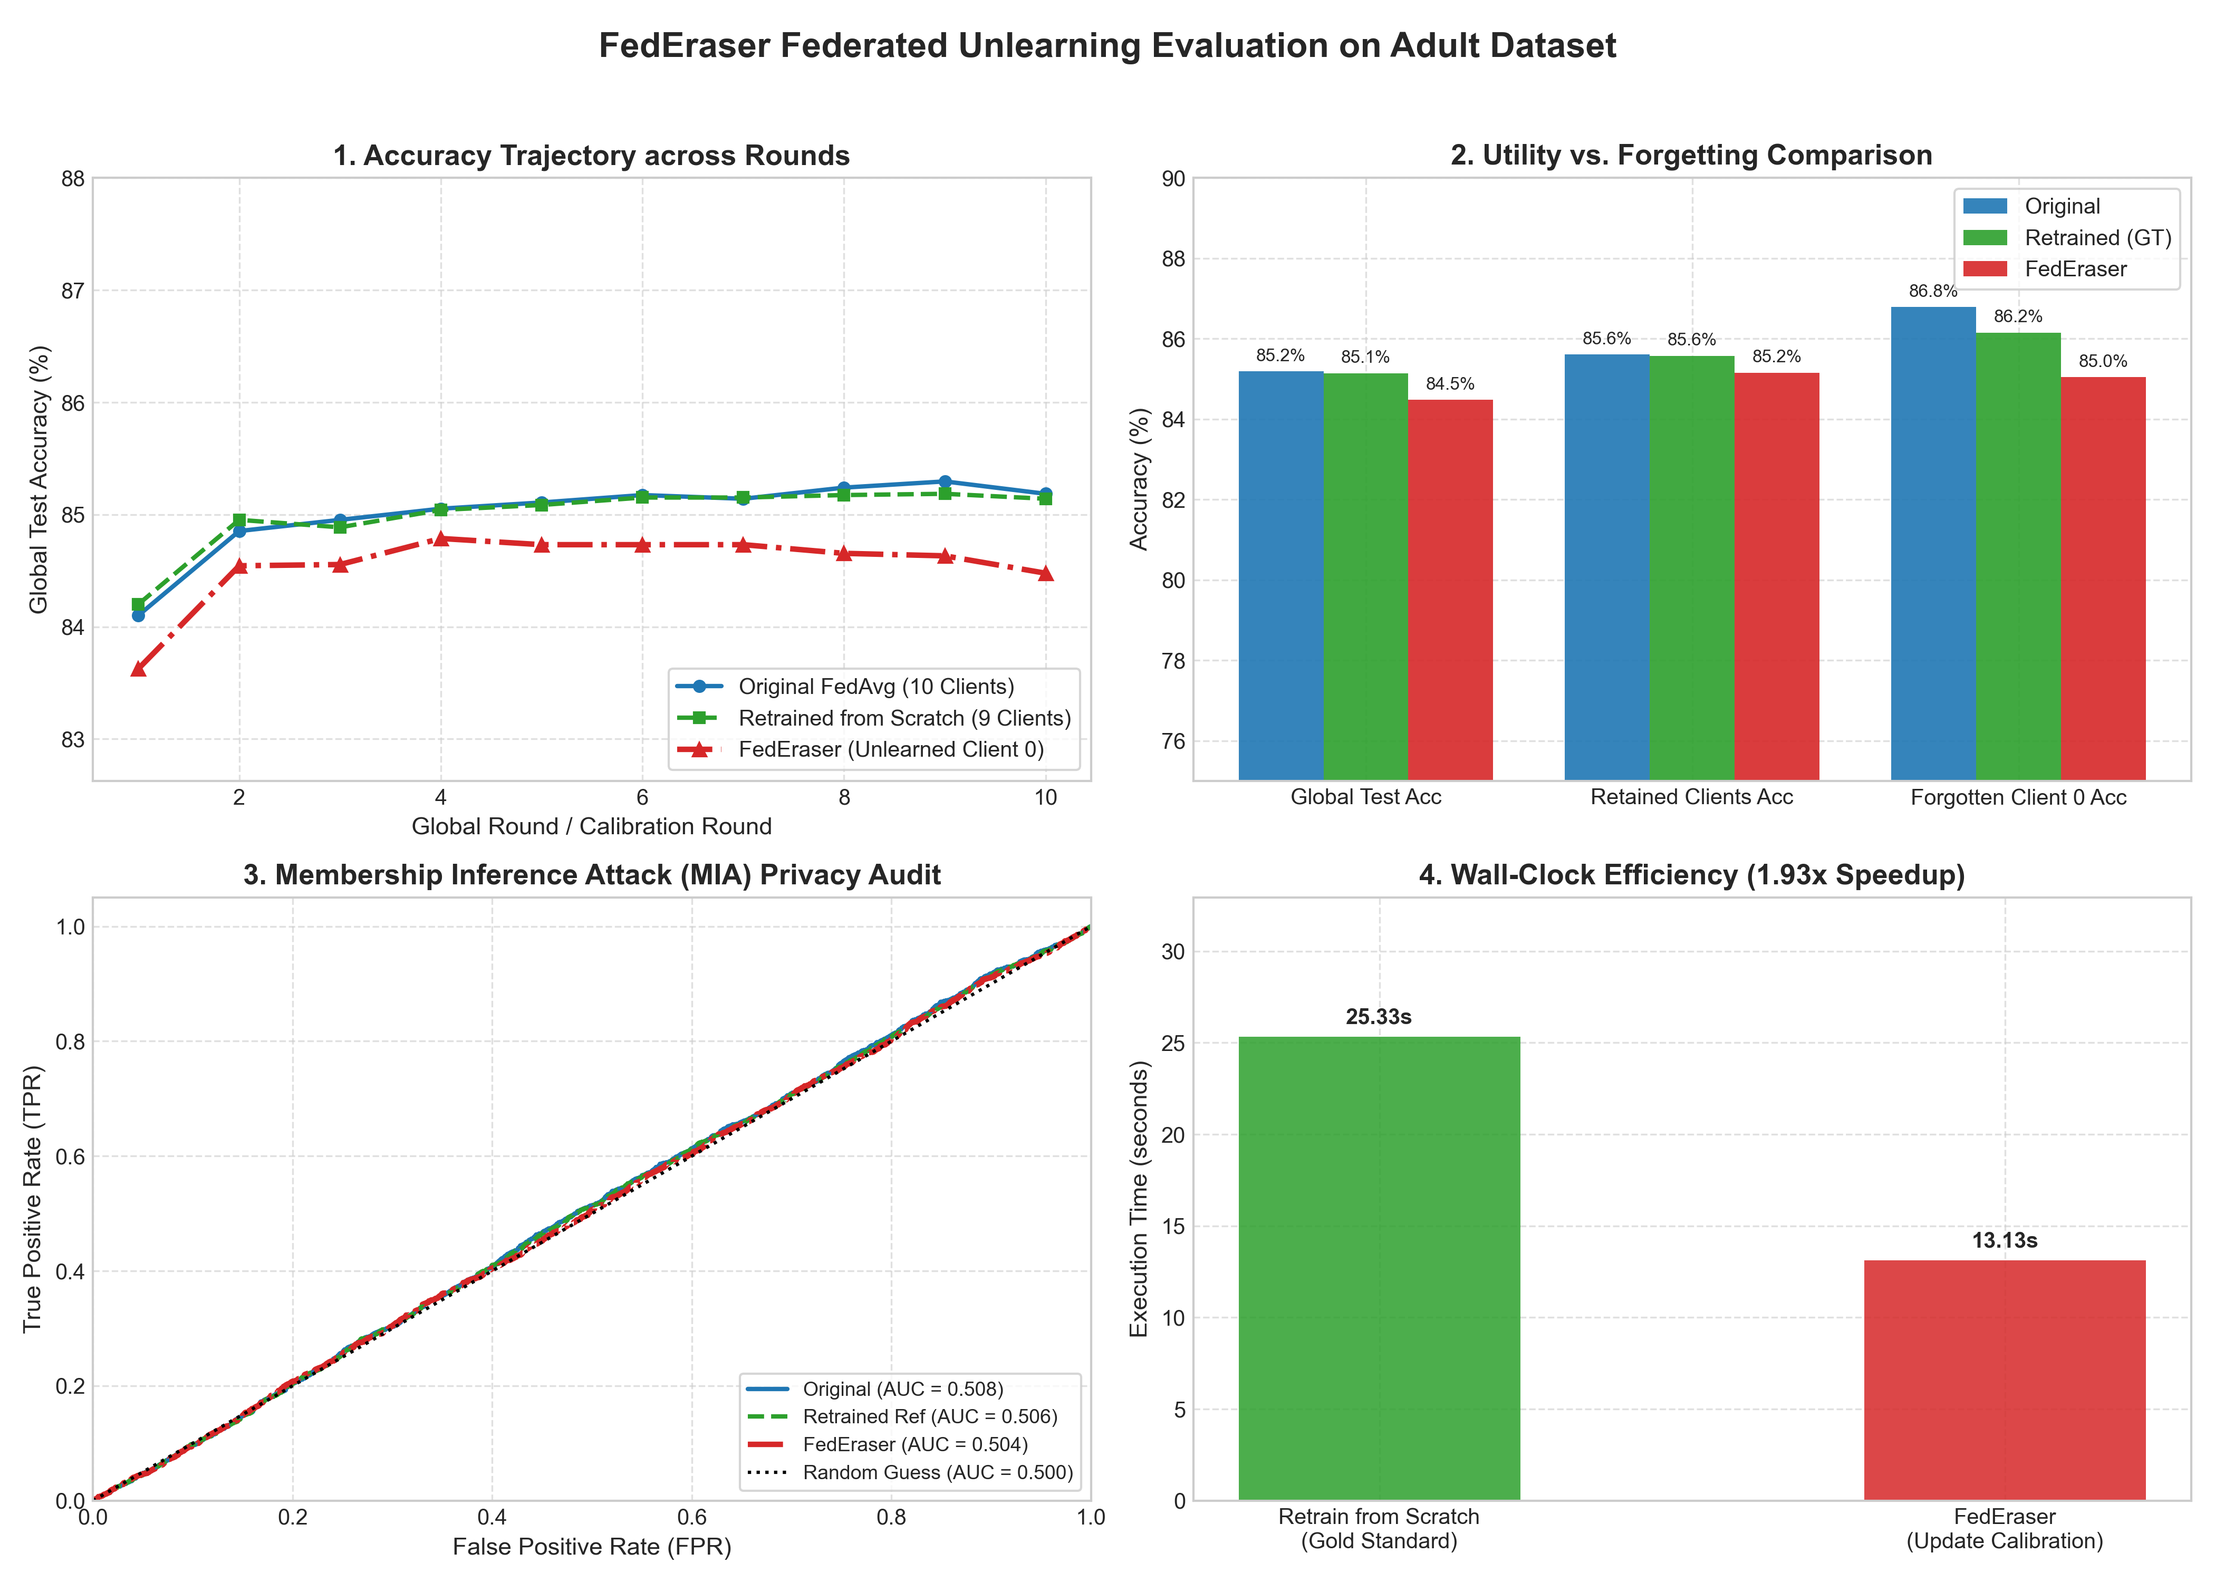
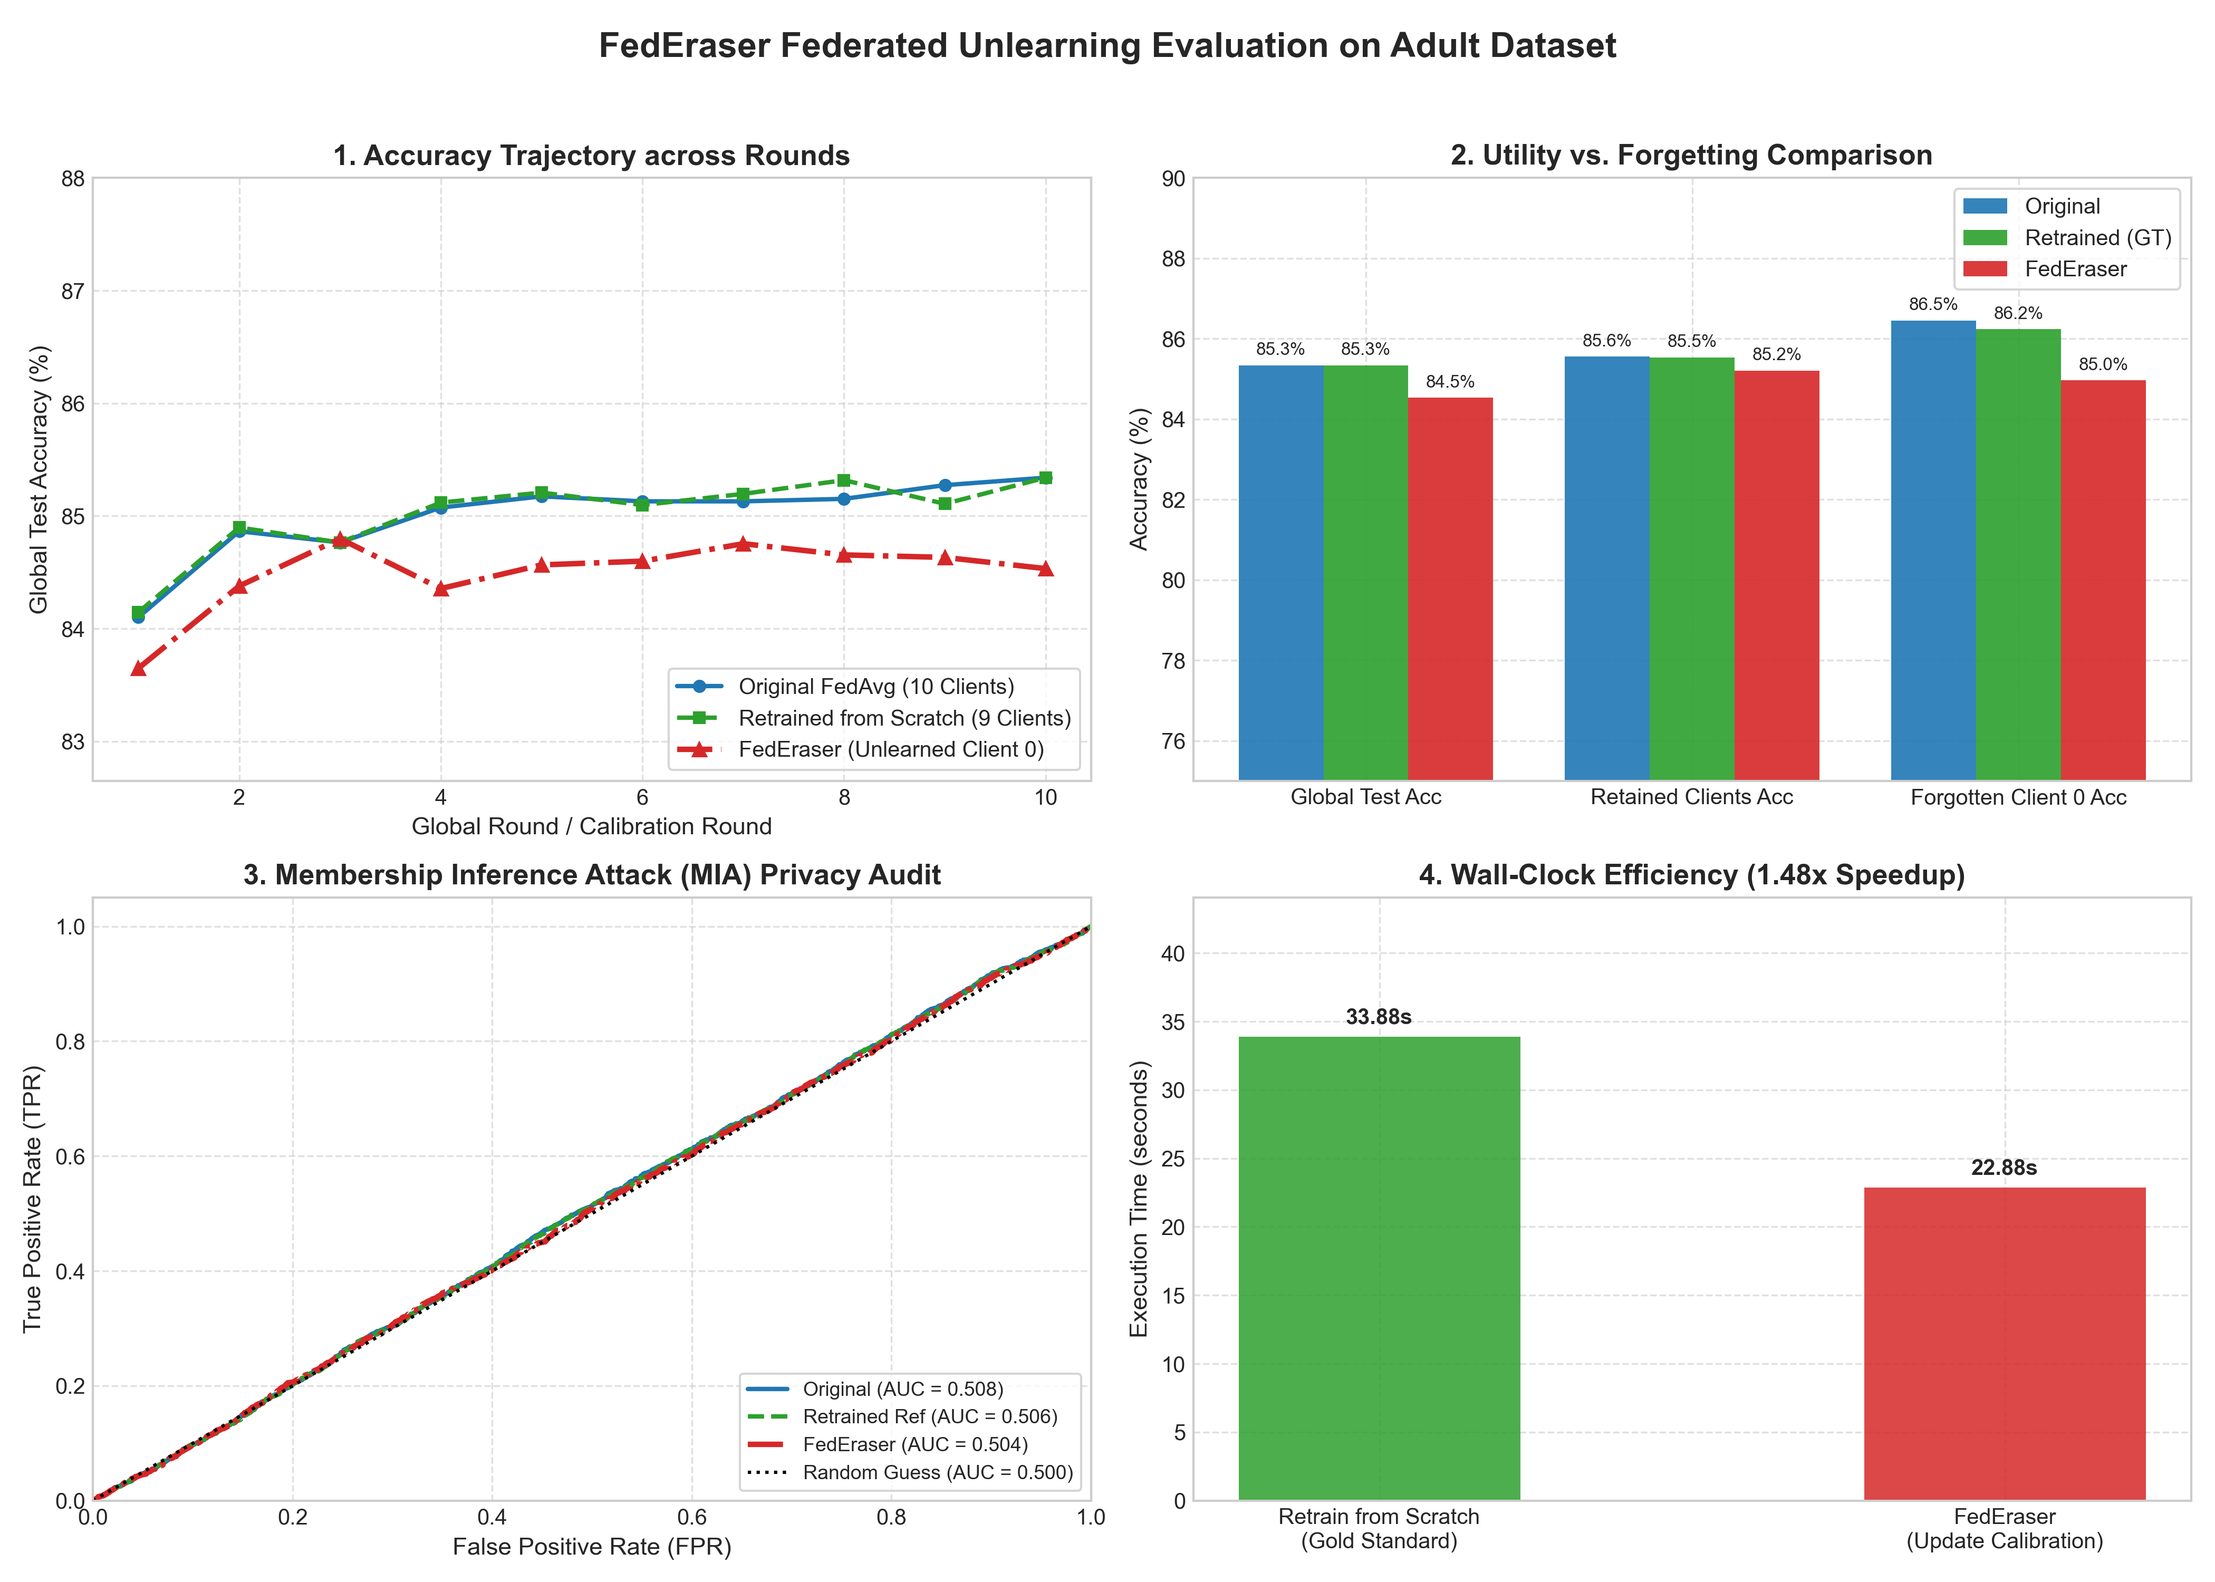
Add time consumption and training vs testing data breakdown plots and documentation

diff --git a/src/metrics/plots.py b/src/metrics/plots.py
@@ -123,3 +123,116 @@ def generate_paper_plots(
     plt.close()
     print(f"\n[Visual Plots Saved]: {filepath}")
     return filepath
+
+
+def generate_time_and_data_plots(
+    orig_history,
+    retrain_history,
+    unlearn_history,
+    summary_metrics,
+    output_dir="results",
+    filename="federaser_time_and_data_plots.png"
+):
+    """
+    Generates a 4-panel figure analyzing:
+    1. Cumulative Time Consumption across rounds (Retrain vs. FedEraser)
+    2. Training Loss vs. Testing Loss trajectories (Generalization analysis)
+    3. Accuracy on Training vs. Testing vs. Forgotten private data
+    4. Computation Rate: Time consumption per round (s/round) & speedup
+    """
+    os.makedirs(output_dir, exist_ok=True)
+    filepath = os.path.join(output_dir, filename)
+
+    plt.style.use('seaborn-v0_8-whitegrid' if 'seaborn-v0_8-whitegrid' in plt.style.available else 'default')
+    fig, axes = plt.subplots(2, 2, figsize=(14, 10))
+    fig.suptitle("FedEraser: Training vs. Testing Data & Time Consumption Analysis", fontsize=16, fontweight='bold', y=0.98)
+
+    rounds = range(1, len(retrain_history["test_acc"]) + 1)
+
+    # -------------------------------------------------------------
+    # 1. Cumulative Time Consumption over Rounds
+    # -------------------------------------------------------------
+    ax1 = axes[0, 0]
+    ax1.plot(rounds, retrain_history["cumulative_time"], 's--', color='#2ca02c', linewidth=2.5, markersize=6, label="Retrain from Scratch (Full Retraining)")
+    ax1.plot(rounds, unlearn_history["cumulative_time"], '^-.', color='#d62728', linewidth=2.5, markersize=6, label="FedEraser (1-Epoch Calibration)")
+    ax1.set_title("1. Cumulative Time Consumption across Rounds", fontsize=13, fontweight='bold')
+    ax1.set_xlabel("Global / Calibration Round", fontsize=11)
+    ax1.set_ylabel("Elapsed Wall-Clock Time (seconds)", fontsize=11)
+    ax1.legend(loc="upper left", frameon=True)
+    ax1.grid(True, linestyle='--', alpha=0.6)
+
+    final_retrain_t = retrain_history["cumulative_time"][-1]
+    final_unlearn_t = unlearn_history["cumulative_time"][-1]
+    ax1.annotate(f'Time Saved: {final_retrain_t - final_unlearn_t:.1f}s\n({summary_metrics["speedup"]:.2f}x Speedup)',
+                 xy=(rounds[-1], final_unlearn_t),
+                 xytext=(rounds[-1] - 3.8, (final_retrain_t + final_unlearn_t) / 2),
+                 arrowprops=dict(facecolor='black', arrowstyle='->', lw=1.5),
+                 fontsize=10, fontweight='bold', bbox=dict(boxstyle='round,pad=0.4', facecolor='yellow', alpha=0.7))
+
+    # -------------------------------------------------------------
+    # 2. Training vs. Testing Loss Curves
+    # -------------------------------------------------------------
+    ax2 = axes[0, 1]
+    ax2.plot(rounds, retrain_history["train_loss"], 'g-', label="Retrained - Train Loss (Retained)", linewidth=1.8)
+    ax2.plot(rounds, retrain_history["test_loss"], 'g--', label="Retrained - Test Loss", linewidth=1.8)
+    ax2.plot(rounds, unlearn_history["train_loss"], 'r-', label="FedEraser - Train Loss (Retained)", linewidth=2.0)
+    ax2.plot(rounds, unlearn_history["test_loss"], 'r--', label="FedEraser - Test Loss", linewidth=2.0)
+    ax2.set_title("2. Training Loss vs. Testing Loss Trajectories", fontsize=13, fontweight='bold')
+    ax2.set_xlabel("Global / Calibration Round", fontsize=11)
+    ax2.set_ylabel("Cross-Entropy Loss", fontsize=11)
+    ax2.legend(loc="upper right", frameon=True, fontsize=9)
+    ax2.grid(True, linestyle='--', alpha=0.6)
+
+    # -------------------------------------------------------------
+    # 3. Training Data vs. Testing Data Accuracy
+    # -------------------------------------------------------------
+    ax3 = axes[1, 0]
+    categories = ["Training Data\n(Retained Clients)", "Testing Data\n(Global Test Set)", "Forgotten Data\n(Client 0 Private)"]
+    x = np.arange(len(categories))
+    width = 0.26
+
+    vals_orig = [orig_history["train_acc"][-1], summary_metrics["orig_test_acc"], summary_metrics["orig_u_acc"]]
+    vals_retrain = [retrain_history["train_acc"][-1], summary_metrics["retrain_test_acc"], summary_metrics["retrain_u_acc"]]
+    vals_unlearn = [unlearn_history["train_acc"][-1], summary_metrics["unlearn_test_acc"], summary_metrics["unlearn_u_acc"]]
+
+    r1 = ax3.bar(x - width, vals_orig, width, label="Original FedAvg", color='#1f77b4', alpha=0.9)
+    r2 = ax3.bar(x, vals_retrain, width, label="Retrained (GT)", color='#2ca02c', alpha=0.9)
+    r3 = ax3.bar(x + width, vals_unlearn, width, label="FedEraser", color='#d62728', alpha=0.9)
+
+    ax3.set_title("3. Accuracy on Training vs. Testing vs. Forgotten Data", fontsize=13, fontweight='bold')
+    ax3.set_xticks(x)
+    ax3.set_xticklabels(categories, fontsize=10)
+    ax3.set_ylabel("Accuracy (%)", fontsize=11)
+    ax3.set_ylim(75, 90)
+    ax3.legend(loc="lower right", frameon=True)
+    ax3.grid(True, linestyle='--', alpha=0.6)
+    for rects in [r1, r2, r3]:
+        for rect in rects:
+            h = rect.get_height()
+            ax3.annotate(f'{h:.1f}%', xy=(rect.get_x() + rect.get_width() / 2, h),
+                         xytext=(0, 3), textcoords="offset points", ha='center', va='bottom', fontsize=8)
+
+    # -------------------------------------------------------------
+    # 4. Computation Rate: Time per Round (Seconds per Round)
+    # -------------------------------------------------------------
+    ax4 = axes[1, 1]
+    retrain_per_round = summary_metrics["time_retrain"] / len(rounds)
+    unlearn_per_round = summary_metrics["time_unlearn"] / len(rounds)
+    time_labels = ["Retrain from Scratch\n(2 Local Epochs / Round)", "FedEraser\n(1 Calibration Epoch / Round)"]
+    round_times = [retrain_per_round, unlearn_per_round]
+    colors = ['#2ca02c', '#d62728']
+    b_t = ax4.bar(time_labels, round_times, color=colors, width=0.45, alpha=0.85)
+    ax4.set_title(f"4. Computation Rate: Time per Round ({summary_metrics['speedup']:.2f}x Speedup)", fontsize=13, fontweight='bold')
+    ax4.set_ylabel("Seconds per Round (s/round)", fontsize=11)
+    ax4.set_ylim(0, max(round_times) * 1.35)
+    ax4.grid(True, linestyle='--', alpha=0.6)
+    for b in b_t:
+        h = b.get_height()
+        ax4.annotate(f'{h:.2f} s/rnd', xy=(b.get_x() + b.get_width() / 2, h),
+                     xytext=(0, 4), textcoords="offset points", ha='center', va='bottom', fontsize=10, fontweight='bold')
+
+    plt.tight_layout(rect=[0, 0, 1, 0.96])
+    plt.savefig(filepath, dpi=300)
+    plt.close()
+    print(f"[Time and Data Plots Saved]: {filepath}")
+    return filepath

diff --git a/src/unlearning/federaser.py b/src/unlearning/federaser.py
@@ -51,7 +51,11 @@ def run_federaser(
     # Initialize unlearned model at round 0
     unlearned_model = AdultMLP(input_dim).to(device)
     load_weights(unlearned_model, initial_weights)
-    unlearn_history = {"test_acc": [], "test_loss": []}
+    unlearn_history = {
+        "train_acc": [], "train_loss": [], 
+        "test_acc": [], "test_loss": [], 
+        "cumulative_time": []
+    }
 
     if verbose:
         print(f"\n=======================================================")
@@ -103,12 +107,24 @@ def run_federaser(
         new_unlearned_weights = apply_update(current_unlearned_weights, aggregated_update)
         load_weights(unlearned_model, new_unlearned_weights)
 
+        # Measure training metrics across retained clients
+        train_accs, train_losses = [], []
+        for cid in retained_client_ids:
+            c_acc, c_loss = evaluate_model(unlearned_model, client_loaders[cid], device=device)
+            train_accs.append(c_acc)
+            train_losses.append(c_loss)
+        avg_train_acc = sum(train_accs) / len(train_accs)
+        avg_train_loss = sum(train_losses) / len(train_losses)
+
         test_acc, test_loss = evaluate_model(unlearned_model, test_loader, device=device)
+        unlearn_history["train_acc"].append(avg_train_acc)
+        unlearn_history["train_loss"].append(avg_train_loss)
         unlearn_history["test_acc"].append(test_acc)
         unlearn_history["test_loss"].append(test_loss)
+        unlearn_history["cumulative_time"].append(time.time() - start_time)
 
         if verbose and (round_idx % 5 == 0 or round_idx == num_rounds):
-            print(f"Calibration Round {round_idx:02d}/{num_rounds:02d} | Test Acc: {test_acc:.2f}% | Test Loss: {test_loss:.4f}")
+            print(f"Calibration Round {round_idx:02d}/{num_rounds:02d} | Train Acc: {avg_train_acc:.2f}% | Test Acc: {test_acc:.2f}% | Test Loss: {test_loss:.4f}")
 
     elapsed_time = time.time() - start_time
     if verbose:

diff --git a/src/baselines/fedavg.py b/src/baselines/fedavg.py
@@ -93,7 +93,11 @@ def train_fedavg(
 
     historical_updates = {}
     global_checkpoints = {0: clone_weights(global_model)}
-    train_history = {"test_acc": [], "test_loss": []}
+    train_history = {
+        "train_acc": [], "train_loss": [], 
+        "test_acc": [], "test_loss": [], 
+        "cumulative_time": []
+    }
 
     start_time = time.time()
 
@@ -127,12 +131,24 @@ def train_fedavg(
         load_weights(global_model, new_global_weights)
         global_checkpoints[round_idx] = clone_weights(global_model)
 
+        # Measure training metrics across active clients
+        train_accs, train_losses = [], []
+        for cid in active_client_ids:
+            c_acc, c_loss = evaluate_model(global_model, client_loaders[cid], device=device)
+            train_accs.append(c_acc)
+            train_losses.append(c_loss)
+        avg_train_acc = sum(train_accs) / len(train_accs)
+        avg_train_loss = sum(train_losses) / len(train_losses)
+
         test_acc, test_loss = evaluate_model(global_model, test_loader, device=device)
+        train_history["train_acc"].append(avg_train_acc)
+        train_history["train_loss"].append(avg_train_loss)
         train_history["test_acc"].append(test_acc)
         train_history["test_loss"].append(test_loss)
+        train_history["cumulative_time"].append(time.time() - start_time)
 
         if verbose and (round_idx % 5 == 0 or round_idx == num_rounds):
-            print(f"Round {round_idx:02d}/{num_rounds:02d} | Test Acc: {test_acc:.2f}% | Test Loss: {test_loss:.4f}")
+            print(f"Round {round_idx:02d}/{num_rounds:02d} | Train Acc: {avg_train_acc:.2f}% | Test Acc: {test_acc:.2f}% | Test Loss: {test_loss:.4f}")
 
     elapsed_time = time.time() - start_time
     if verbose:

diff --git a/experiments/run_adult_experiment.py b/experiments/run_adult_experiment.py
@@ -14,7 +14,7 @@ from src.models import AdultMLP, clone_weights
 from src.baselines.fedavg import train_fedavg
 from src.unlearning.federaser import run_federaser
 from src.metrics.evaluate import evaluate_all_metrics
-from src.metrics.plots import generate_paper_plots
+from src.metrics.plots import generate_paper_plots, generate_time_and_data_plots
 
 def main():
     # Set random seeds for reproducibility
@@ -123,6 +123,15 @@ def main():
         summary_metrics=summary_metrics,
         output_dir="results",
         filename="federaser_evaluation_plots.png"
+    )
+    print(">>> Generating Time Consumption and Data Breakdown Plots...")
+    generate_time_and_data_plots(
+        orig_history=orig_history,
+        retrain_history=retrain_history,
+        unlearn_history=unlearn_history,
+        summary_metrics=summary_metrics,
+        output_dir="results",
+        filename="federaser_time_and_data_plots.png"
     )
 
 if __name__ == "__main__":

diff --git a/README.md b/README.md
@@ -136,6 +136,15 @@ The 4-panel publication-style evaluation plot generated directly by our pipeline
 3. **Bottom-Left (MIA Privacy Audit ROC Curves):** FedEraser's ROC curve hugs the diagonal random-guess line ($y=x$), proving privacy compliance.
 4. **Bottom-Right (Computational Efficiency):** Wall-clock time comparison demonstrating real-world speedup.
 
+### Training vs. Testing Data & Time Consumption Breakdown
+
+![FedEraser Time and Data Analysis](results/federaser_time_and_data_plots.png)
+
+1. **Top-Left (Cumulative Time across Rounds):** Direct comparison of cumulative wall-clock time showing the significant time savings achieved at every calibration round.
+2. **Top-Right (Train Loss vs. Test Loss):** Evaluates training loss vs. test loss trajectories across rounds to verify that the unlearned model generalizes properly without overfitting or divergence.
+3. **Bottom-Left (Training vs. Testing vs. Forgotten Accuracy):** Compares performance across the 3 datasets: Retained Training Data, Held-out Test Data, and Forgotten Client Private Data.
+4. **Bottom-Right (Computation Rate):** Seconds per round (s/round) comparing full retraining vs. lightweight FedEraser calibration.
+
 ---
 
 ## 6. Repository Structure
@@ -151,7 +160,8 @@ federated-unlearning-research/
 │   ├── 00_survey_romandini_2024.md    # Survey notes (Romandini et al.)
 │   └── 01_federaser_2021.md           # FedEraser paper breakdown
 ├── results/
-│   └── federaser_evaluation_plots.png # High-res 4-panel evaluation figure (300 DPI)
+│   ├── federaser_evaluation_plots.png # High-res 4-panel evaluation figure (300 DPI)
+│   └── federaser_time_and_data_plots.png # High-res time & data breakdown figure (300 DPI)
 ├── experiments/
 │   └── run_adult_experiment.py        # End-to-end benchmark runner
 └── src/
